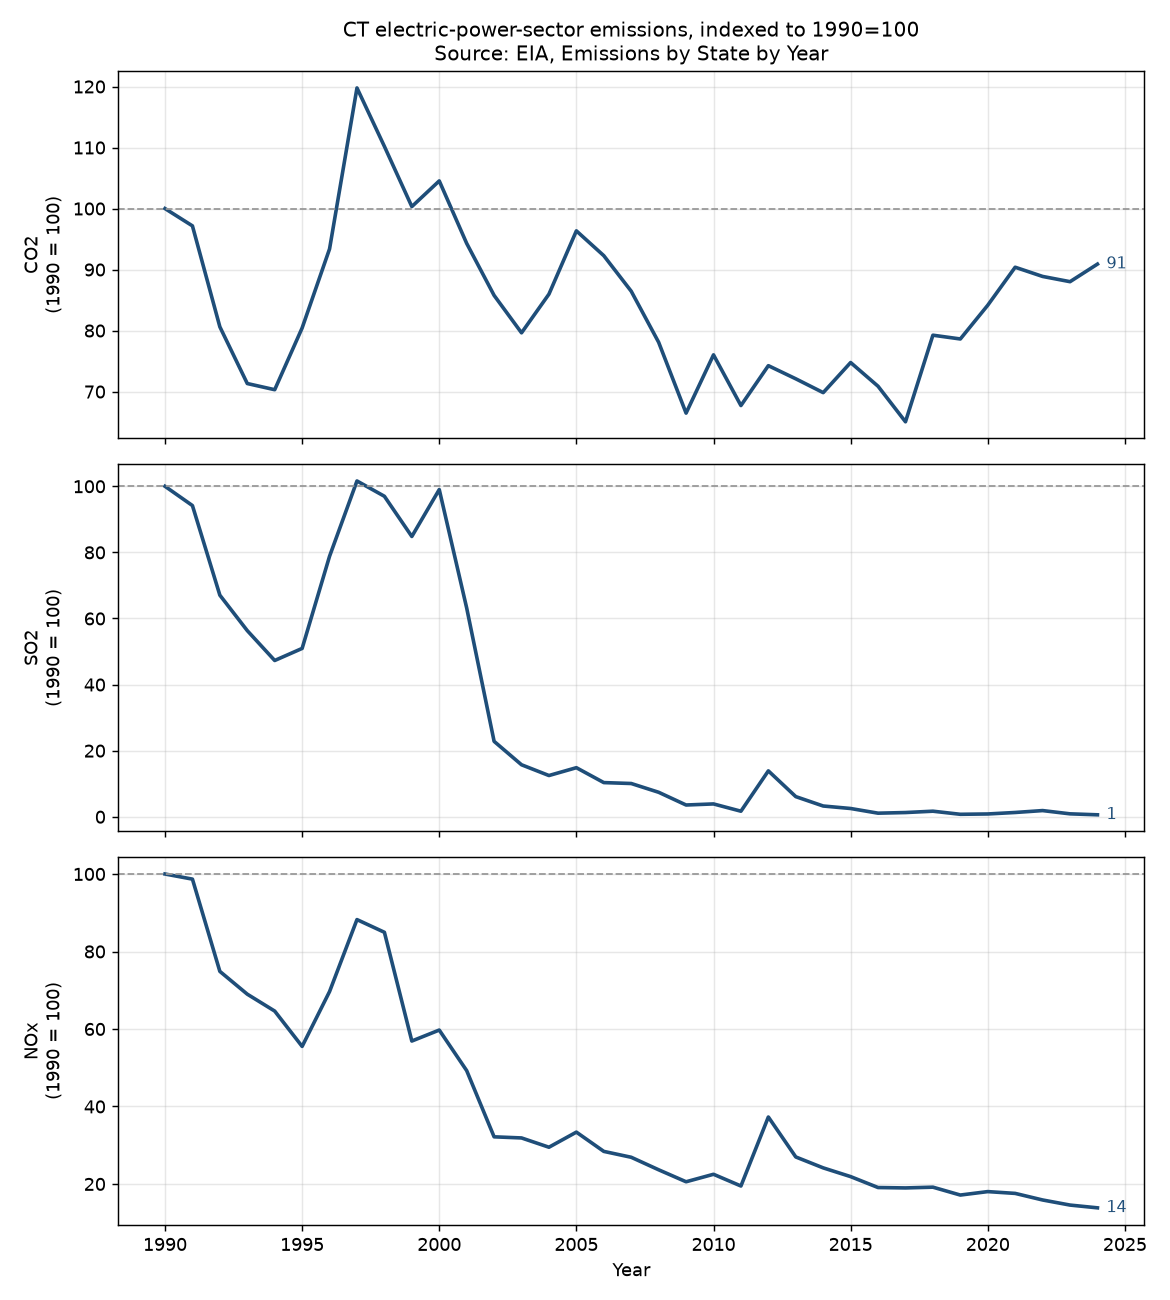
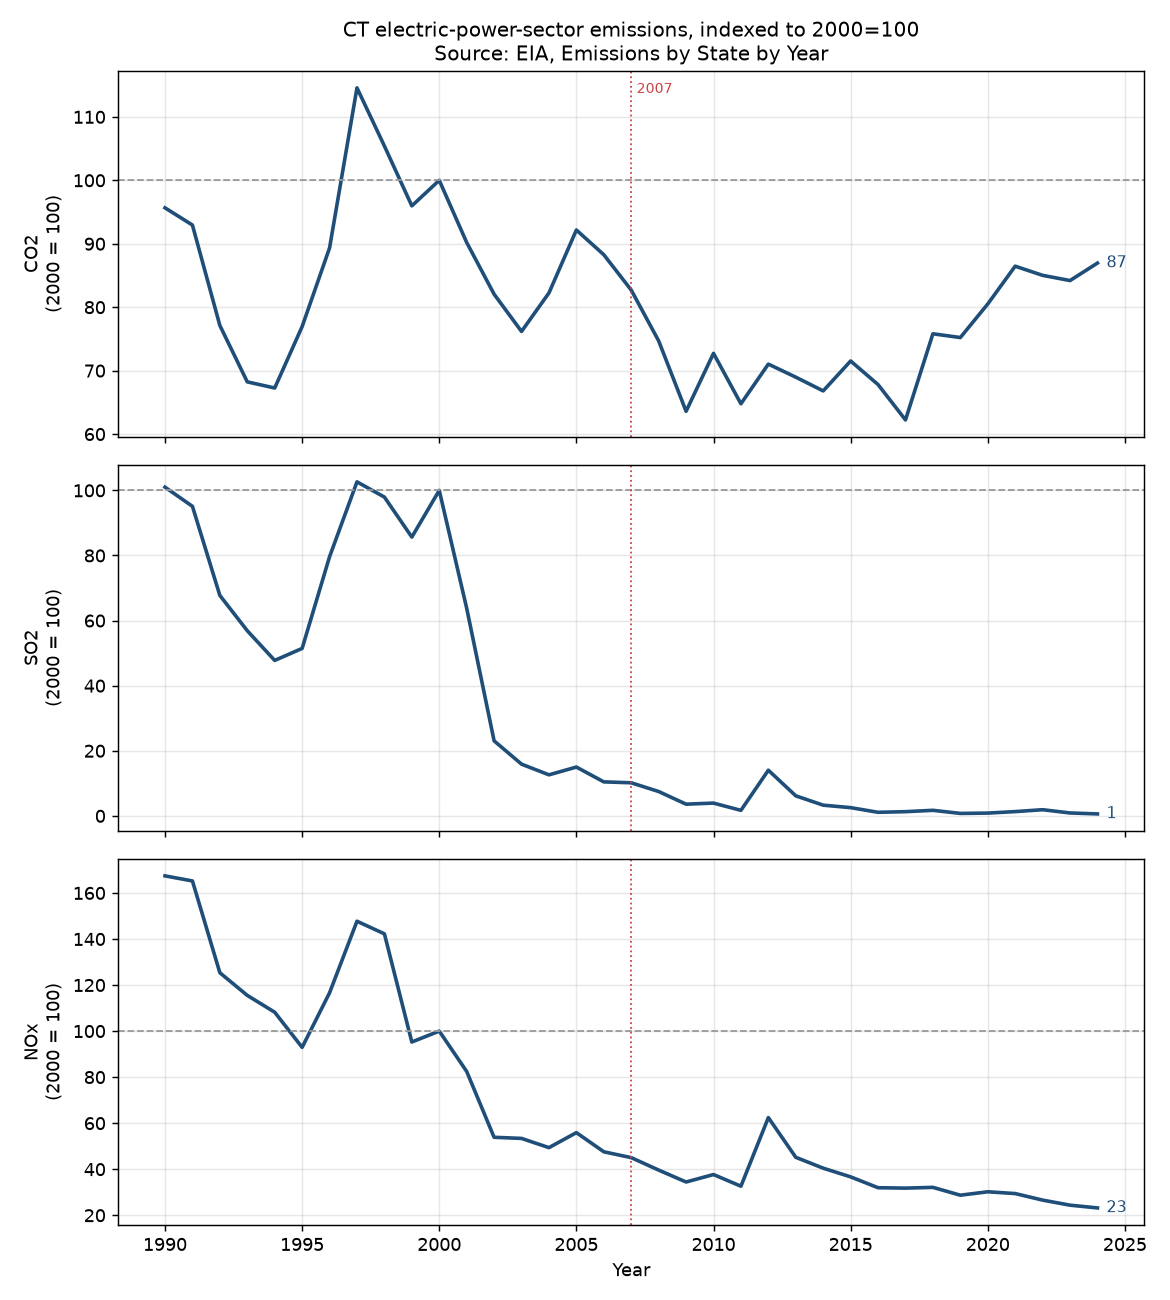
Ground Claim 01 in the actual CCEA report and CBIA article
Refocus the emissions analysis on what CCEA's "How Did We Get Here?" report
actually argues -- that Connecticut is "worse off because of the environmental
impact" of exporting gas-fired generation -- rather than a flat "emissions are
up." Aligns the numbers and baseline (2000) to the published CBIA rebuttal.

- analyze_emissions.py: configurable --baseline (default 2000) and --cross-check
  (default 2007, CCEA's consumption-peak pivot); reports change vs both, plus
  peak; trends chart now indexes to the baseline and marks the 2007 line
- claims/01-emissions/README.md: quotes CCEA verbatim, matches the article's
  figures (CO2 -13%, SO2 -99%, NOx -77% since 2000 with generation up ~50%),
  and addresses CCEA's strongest sub-points (2007 baseline, 7.2 MMTCO2e export
  framing, scope) honestly
- README.md: link the CCEA PDF and the CBIA article; sharpen the claim status
- add US-TOTAL outputs for national context

https://claude.ai/code/session_0133S5AZx3WX4b5S6pbEcabo

diff --git a/claims/01-emissions/analyze_emissions.py b/claims/01-emissions/analyze_emissions.py
@@ -96,30 +96,32 @@ def pct(old: float, new: float) -> float:
     return float("nan") if old == 0 else (new - old) / old * 100.0
 
 
-def summarize(series: pd.DataFrame, label: str) -> pd.DataFrame:
-    """Per-pollutant baseline/peak/latest summary for a totals time series.
+def summarize(series: pd.DataFrame, label: str, ref_year: int) -> pd.DataFrame:
+    """Per-pollutant summary anchored on a chosen reference year.
 
-    Column names are fixed (not f-strings of the year) so summaries for
-    different regions/pollutants concatenate cleanly into one table.
+    Reports the reference year (default 2000, matching the CBIA article), the
+    all-time peak, and the latest year, with percent changes against both the
+    reference and the peak. Column names are fixed strings (the year values live
+    in cells, not headers) so summaries for different regions concatenate cleanly.
     """
     rows = []
-    base_year, latest_year = int(series.index.min()), int(series.index.max())
+    latest_year = int(series.index.max())
     for pol in series.columns:
         s = series[pol]
-        base, latest = s.loc[base_year], s.loc[latest_year]
+        ref, latest = s.loc[ref_year], s.loc[latest_year]
         peak_year = int(s.idxmax())
         peak = s.loc[peak_year]
         rows.append(
             {
                 "Region": label,
                 "Pollutant": pol,
-                "Baseline Year": base_year,
-                "Baseline": round(base),
-                "Peak Year": peak_year,
-                "Peak": round(peak),
+                "Ref Year": ref_year,
+                "Ref": round(ref),
                 "Latest Year": latest_year,
                 "Latest": round(latest),
-                "% chg vs baseline": round(pct(base, latest), 1),
+                "% chg vs ref": round(pct(ref, latest), 1),
+                "Peak Year": peak_year,
+                "Peak": round(peak),
                 "% chg vs peak": round(pct(peak, latest), 1),
             }
         )
@@ -145,16 +147,17 @@ def to_markdown_table(df: pd.DataFrame) -> str:
     return "\n".join(lines) + "\n"
 
 
-def plot_pollutant_trends(series: pd.DataFrame, state: str) -> Path:
-    """Three stacked panels: CO2, SO2, NOx over time, each indexed to 1990=100."""
+def plot_pollutant_trends(series: pd.DataFrame, state: str, ref_year: int, xcheck: int) -> Path:
+    """Three stacked panels: CO2, SO2, NOx over time, each indexed to ref_year=100."""
     fig, axes = plt.subplots(3, 1, figsize=(9, 10), sharex=True)
-    base_year = series.index.min()
     for ax, pol in zip(axes, ["CO2", "SO2", "NOx"]):
         s = series[pol]
-        indexed = s / s.loc[base_year] * 100.0
+        indexed = s / s.loc[ref_year] * 100.0
         ax.plot(s.index, indexed, color="#1f4e79", linewidth=2)
         ax.axhline(100, color="#999", linestyle="--", linewidth=1)
-        ax.set_ylabel(f"{pol}\n({base_year} = 100)")
+        # Mark the cross-check year (CCEA's 2007 pivot) for transparency.
+        ax.axvline(xcheck, color="#c44", linestyle=":", linewidth=1)
+        ax.set_ylabel(f"{pol}\n({ref_year} = 100)")
         ax.grid(True, alpha=0.3)
         latest_year = s.index.max()
         ax.annotate(
@@ -166,8 +169,16 @@ def plot_pollutant_trends(series: pd.DataFrame, state: str) -> Path:
             fontsize=9,
             color="#1f4e79",
         )
+    axes[0].annotate(
+        f"{xcheck}",
+        xy=(xcheck, axes[0].get_ylim()[1]),
+        xytext=(3, -12),
+        textcoords="offset points",
+        fontsize=8,
+        color="#c44",
+    )
     axes[0].set_title(
-        f"{state} electric-power-sector emissions, indexed to {base_year}=100\n"
+        f"{state} electric-power-sector emissions, indexed to {ref_year}=100\n"
         "Source: EIA, Emissions by State by Year",
         fontsize=11,
     )
@@ -213,6 +224,20 @@ def main() -> None:
         default="CT",
         help="Two-letter state code to analyze (default: CT). Use US-TOTAL for the nation.",
     )
+    parser.add_argument(
+        "--baseline",
+        type=int,
+        default=2000,
+        help="Reference year for percent-change headlines (default: 2000, the "
+        "baseline used in the CBIA article).",
+    )
+    parser.add_argument(
+        "--cross-check",
+        type=int,
+        default=2007,
+        help="A second reference year to report (default: 2007, the year CCEA "
+        "cites as the start of declining in-state consumption).",
+    )
     args = parser.parse_args()
     state = args.state.upper()
 
@@ -227,33 +252,37 @@ def main() -> None:
     us_totals = sector_totals(df, "US-TOTAL")
     fuel = co2_by_fuel(df, state)
 
+    first_year, latest_year = int(state_totals.index.min()), int(state_totals.index.max())
+    ref, xcheck = args.baseline, args.cross_check
+    for yr in (ref, xcheck):
+        if yr not in state_totals.index:
+            raise SystemExit(f"Year {yr} not in data range {first_year}-{latest_year}.")
+
     # Console report -----------------------------------------------------------
-    base_year, latest_year = state_totals.index.min(), state_totals.index.max()
-    print(f"\n{'='*70}\nClaim 01 - 'Emissions are up'\n{'='*70}")
-    print(f"State: {state}   |   Range: {base_year}-{latest_year}")
+    print(f"\n{'='*70}\nClaim 01 - emissions / environmental impact\n{'='*70}")
+    print(f"State: {state}   |   Data range: {first_year}-{latest_year}")
+    print(f"Headline baseline: {ref}   |   Cross-check baseline: {xcheck}")
     print(f"Source: EIA, Emissions by State by Year ({DATA_FILE.name})\n")
 
     summary = pd.concat(
-        [summarize(state_totals, state), summarize(us_totals, "US-TOTAL")],
+        [summarize(state_totals, state, ref), summarize(us_totals, "US-TOTAL", ref)],
         ignore_index=True,
     )
     print(summary.to_string(index=False))
 
-    co2 = state_totals["CO2"]
-    print(f"\n-- Fuel switch ({state}, CO2 in metric tons) --")
-    for yr in [base_year, latest_year]:
+    print(f"\n-- {state} fuel switch (CO2, metric tons) --")
+    for yr in [ref, latest_year]:
         row = {f: int(fuel.loc[yr, f]) for f in FOSSIL_FUELS}
         print(f"  {yr}: {row}")
-    print(
-        f"\n  CO2:  {int(co2.loc[base_year]):,} -> {int(co2.loc[latest_year]):,} t "
-        f"({pct(co2.loc[base_year], co2.loc[latest_year]):+.1f}% vs {base_year}; "
-        f"{pct(co2.max(), co2.loc[latest_year]):+.1f}% vs peak {co2.idxmax()})"
-    )
-    for pol in ["SO2", "NOx"]:
+
+    # Show each pollutant against BOTH baselines so the 2007 nuance is explicit.
+    print(f"\n-- {state} pollutant change vs {ref} and vs {xcheck} --")
+    for pol in ["CO2", "SO2", "NOx"]:
         s = state_totals[pol]
         print(
-            f"  {pol}:  {int(s.loc[base_year]):,} -> {int(s.loc[latest_year]):,} t "
-            f"({pct(s.loc[base_year], s.loc[latest_year]):+.1f}% vs {base_year})"
+            f"  {pol:3}: vs {ref}: {pct(s.loc[ref], s.loc[latest_year]):+6.1f}%   "
+            f"vs {xcheck}: {pct(s.loc[xcheck], s.loc[latest_year]):+6.1f}%   "
+            f"({int(s.loc[ref]):,} / {int(s.loc[xcheck]):,} -> {int(s.loc[latest_year]):,})"
         )
 
     # File outputs -------------------------------------------------------------
@@ -265,7 +294,7 @@ def main() -> None:
         fh.write(to_markdown_table(summary))
         fh.write("\n")
 
-    trends_png = plot_pollutant_trends(state_totals, state)
+    trends_png = plot_pollutant_trends(state_totals, state, ref, xcheck)
     mix_png = plot_co2_fuel_mix(fuel, state)
 
     print(f"\nWrote outputs to {OUTPUT_DIR}/")

diff --git a/claims/01-emissions/README.md b/claims/01-emissions/README.md
@@ -1,87 +1,119 @@
-# Claim 01 — "Emissions are up"
+# Claim 01 — Emissions / environmental impact
 
-## The claim
+**CCEA report:** *How Did We Get Here?* (Connecticut Center for Economic
+Analysis / Fred Carstensen)
+[[PDF]](https://www.conservationeducation.org/uploads/6/2/0/1/6201942/how_did_we_get_here_-_ccea_report.pdf)
 
-> _"[Paste the exact CCEA / Carstensen quote here, with citation and date.]"_
+**Rebuttal article:** "Natural Gas Does Not Make Electricity More Expensive,"
+CBIA
+[[link]](https://www.cbia.com/news/issues-policies/natural-gas-does-not-make-electricity-more-expensive)
 
-The claim, as commonly stated, is that the shift toward natural gas in the power
-sector has **driven emissions up**. This page tests that against the official
-record.
+---
+
+## What CCEA actually claims
+
+CCEA does **not** claim natural gas raised total emissions outright — it
+concedes the opposite happened initially:
+
+> "…a startling expansion of investments in utility power generation … *initially
+> helped to significantly reduce greenhouse gas emission relative to the use of
+> other fossil fuels*." — Executive Summary
+
+Their argument is that Connecticut is nonetheless **"worse off because of the
+environmental impact"** because it now generates far more power than it consumes
+and exports the surplus, so it keeps the pollution while shipping the
+electricity (and the benefit) out of state:
+
+> "…sending so much of the power generated in-state out-of-state does mean that
+> Connecticut citizens endured pollution costs from **7.2 MMTCO2e on additional
+> emissions**. In 2025, the World Bank values these CO2e emissions from
+> electricity generation at **$506.8M**…"
+
+> "Note that energy consumption in Connecticut itself has been declining since
+> **2007**, meaning that public health costs in the state resulting from
+> shipping power out-of-state have **been rising**."
+
+So the testable empirical claim is: **Connecticut's in-state power-sector
+emissions burden has been rising** (post-2007, driven by export-oriented gas
+generation), making the state environmentally worse off.
 
 ## The data
 
-**Source:** U.S. Energy Information Administration (EIA), *Emissions by State by
-Year* — the federal government's official accounting of **electric-power-sector**
-emissions of CO₂, SO₂, and NOx, by state and fuel, from 1990 to 2024.
+**Source:** EIA, *Emissions by State by Year* — official electric-power-sector
+CO₂, SO₂, and NOx by state and fuel, 1990–2024.
+URL: <https://www.eia.gov/electricity/data/state/emission_annual.xlsx>
+Scope: **electric power sector only** (not economy-wide).
 
-- URL: <https://www.eia.gov/electricity/data/state/emission_annual.xlsx>
-- Scope: **electric power sector only** (not economy-wide; transportation and
-  building heating are not included here).
-- Geography: Connecticut, with the U.S. total for context. (CCEA is the
-  Connecticut Center for Economic Analysis, so Connecticut is the natural focus.)
-
-Reproduce everything on this page:
+Reproduce:
 
 ```bash
 python scripts/download_data.py
-python claims/01-emissions/analyze_emissions.py          # Connecticut
+python claims/01-emissions/analyze_emissions.py              # CT, 2000 baseline
 python claims/01-emissions/analyze_emissions.py --state US-TOTAL
 ```
 
 ## What the data shows
 
-Connecticut power-sector emissions, EIA *Total Electric Power Industry*:
+Connecticut power-sector emissions, **indexed to 2000** (the baseline used in the
+CBIA article), with the all-time peak for context:
 
-| Pollutant | 1990 | Peak | Latest (2024) | vs 1990 | vs peak |
-|-----------|-----:|-----:|--------------:|--------:|--------:|
-| CO₂ (metric tons) | 12,103,268 | 14,495,967 (1997) | 11,001,595 | **−9.1%** | **−24.1%** |
-| SO₂ (metric tons) | 52,235 | 53,078 (1997) | 313 | **−99.4%** | **−99.4%** |
-| NOx (metric tons) | 31,512 | 31,512 (1990) | 4,363 | **−86.2%** | **−86.2%** |
+| Pollutant | 2000 | Latest (2024) | **vs 2000** | Peak | vs peak |
+|-----------|-----:|--------------:|------------:|-----:|--------:|
+| CO₂ (metric tons) | 12,651,961 | 11,001,595 | **−13.0%** | 14,495,967 (1997) | −24.1% |
+| SO₂ (metric tons) | 51,721 | 313 | **−99.4%** | 53,078 (1997) | −99.4% |
+| NOx (metric tons) | 18,821 | 4,363 | **−76.8%** | 31,512 (1990) | −86.2% |
 
-The national picture moves the same direction (U.S. power-sector CO₂ −21% vs
-1990 and −40% vs its 2007 peak; SO₂ −95%; NOx −86%).
+These are the figures cited in the article — CO₂ down 13%, SO₂ down 99%, NOx
+down 77% since 2000 — **and CCEA's own report says generation rose ~50% over
+essentially the same period** ("electricity generation 2001-2022/4 rose by nearly
+50%"). Emissions fell sharply *while output grew by half*.
 
-![Connecticut power-sector emissions indexed to 1990=100](output/CT_pollutant_trends.png)
+![CT power-sector emissions indexed to 2000=100](output/CT_pollutant_trends.png)
 
-### The fuel switch behind it
+### The driver: coal and oil displaced by gas
 
-Connecticut's power sector ran on **coal and oil** in 1990. By 2024 those were
-almost entirely displaced by natural gas — and that switch is exactly what drove
-the emissions down:
-
-| Fuel (CO₂, metric tons) | 1990 | 2024 |
+| Fuel (CO₂, metric tons) | 2000 | 2024 |
 |-------------------------|-----:|-----:|
-| Coal | 3,560,469 | 0 |
-| Petroleum (oil) | 7,382,393 | 81,131 |
-| Natural Gas | 697,643 | 10,214,445 |
+| Coal | 3,370,556 | 0 |
+| Petroleum (oil) | 5,858,878 | 81,131 |
+| Natural Gas | 2,241,028 | 10,214,445 |
 
-![Connecticut power-sector CO₂ by fuel](output/CT_co2_fuel_mix.png)
+The SO₂ and NOx collapse is almost entirely the retirement of coal and oil —
+exactly the displacement the article attributes to natural gas.
+
+![CT power-sector CO₂ by fuel](output/CT_co2_fuel_mix.png)
 
 ## Verdict
 
-**The claim that power-sector emissions are "up" is not supported by the EIA
-record.** Every pollutant EIA tracks is *below* its 1990 level and far below its
-peak:
+**The "environmentally worse off" framing is not supported by the absolute
+emissions record.** Even as Connecticut became New England's largest generator
+and output rose ~50%, total power-sector CO₂ fell 13%, and the criteria
+pollutants that most directly drive local public health — NOx and SO₂ — fell 77%
+and 99%. A state whose air pollution from power generation has fallen by these
+margins is not plausibly "worse off" environmentally because of that generation.
 
-- **SO₂ is down 99.4%** and **NOx is down 86%** — the criteria pollutants most
-  directly tied to public health (smog, acid rain, fine particulates).
-- **CO₂ is down 9% from 1990 and 24% from its peak**, even though Connecticut's
-  power sector generates more electricity today than it did then.
+## Honest treatment of CCEA's strongest sub-points
 
-The driver is unambiguous in the fuel data: natural gas displaced the coal and
-oil that Connecticut's grid used to burn.
+A credible line-by-line review has to engage CCEA's framing on its own terms:
 
-## An honest caveat
+1. **The 2007 baseline.** CCEA anchors "rising costs" on 2007, when in-state
+   *consumption* peaked. Measured from 2007, CT power-sector **CO₂ is up ~5.1%**
+   (10.46M → 11.00M t). That is the kernel of truth in the claim — but it is
+   baseline-shopping: from 2000, or from the 1997/2007 emissions peaks, CO₂ is
+   down, and even from 2007 **SO₂ (−94%) and NOx (−49%) kept falling steeply**.
+   The 2007 line is marked on the chart above so readers can see this directly.
 
-Intellectual honesty requires noting the one place the trend is *not* monotonic:
-Connecticut power-sector **CO₂ rose from its 2017 low (~7.9M t) back to ~11.0M t
-in 2024**. So a critic could cherry-pick "CO₂ is up since 2017" — but that is a
-selective baseline. Against the standard 1990 reference, and against the
-all-time peak, CO₂ is down, and the health-relevant criteria pollutants have
-collapsed. The choice of baseline year, pollutant, and scope (power sector vs.
-economy-wide) determines the answer, which is precisely why this analysis states
-all three explicitly.
+2. **"7.2 MMTCO2e of additional emissions" from exports.** CCEA assigns the CO₂
+   of exported power to Connecticut and prices it at the social cost of carbon.
+   But (a) CO₂ is a global pollutant — those tons are not local "public health"
+   exposure; and (b) exported gas generation displaces *dirtier* marginal
+   generation elsewhere in the region, so attributing it as pure added harm to
+   Connecticut double-counts. For the *local* health pollutants that actually
+   vary with where power is burned (NOx, SO₂), the in-state trend is sharply
+   down, and per the article's EPA point, **90–95% of Connecticut's measured
+   pollution is attributable to out-of-state sources** — not its own power plants.
 
-> **To finalize:** drop the exact CCEA quote (with its baseline year and whether
-> it refers to the power sector or the whole economy) into "The claim" above so
-> the rebuttal addresses their wording precisely.
+3. **Scope.** This dataset is the electric power sector only. CCEA's claim is
+   also about the power sector, so the comparison is apples-to-apples; economy-
+   wide emissions (transportation, heating) are a separate question handled under
+   other claims.

diff --git a/claims/01-emissions/output/summary_table.md b/claims/01-emissions/output/summary_table.md
@@ -1,11 +1,11 @@
 # Claim 01 - Emissions (CT) - EIA data
 
-| Region | Pollutant | Baseline Year | Baseline | Peak Year | Peak | Latest Year | Latest | % chg vs baseline | % chg vs peak |
+| Region | Pollutant | Ref Year | Ref | Latest Year | Latest | % chg vs ref | Peak Year | Peak | % chg vs peak |
 | --- | --- | --- | --- | --- | --- | --- | --- | --- | --- |
-| CT | CO2 | 1990 | 12,103,268 | 1997 | 14,495,967 | 2024 | 11,001,595 | -9.1 | -24.1 |
-| CT | SO2 | 1990 | 52,235 | 1997 | 53,078 | 2024 | 313 | -99.4 | -99.4 |
-| CT | NOx | 1990 | 31,512 | 1990 | 31,512 | 2024 | 4,363 | -86.2 | -86.2 |
-| US-TOTAL | CO2 | 1990 | 1,953,698,942 | 2007 | 2,547,032,486 | 2024 | 1,537,072,640 | -21.3 | -39.7 |
-| US-TOTAL | SO2 | 1990 | 15,461,524 | 1990 | 15,461,524 | 2024 | 807,686 | -94.8 | -94.8 |
-| US-TOTAL | NOx | 1990 | 7,961,276 | 1993 | 7,996,658 | 2024 | 1,112,395 | -86.0 | -86.1 |
+| CT | CO2 | 2000 | 12,651,961 | 2024 | 11,001,595 | -13.0 | 1997 | 14,495,967 | -24.1 |
+| CT | SO2 | 2000 | 51,721 | 2024 | 313 | -99.4 | 1997 | 53,078 | -99.4 |
+| CT | NOx | 2000 | 18,821 | 2024 | 4,363 | -76.8 | 1990 | 31,512 | -86.2 |
+| US-TOTAL | CO2 | 2000 | 2,470,834,445 | 2024 | 1,537,072,640 | -37.8 | 2007 | 2,547,032,486 | -39.7 |
+| US-TOTAL | SO2 | 2000 | 11,903,806 | 2024 | 807,686 | -93.2 | 1990 | 15,461,524 | -94.8 |
+| US-TOTAL | NOx | 2000 | 5,638,125 | 2024 | 1,112,395 | -80.3 | 1993 | 7,996,658 | -86.1 |
 

diff --git a/README.md b/README.md
@@ -8,8 +8,12 @@ Every figure cited here is reproducible: the code that downloads the source
 data and produces the numbers and charts lives in this repository, so anyone
 can re-run it and check the result.
 
-> **Companion article:** I summarized this analysis in an op-ed/article
-> published on the CBIA website. _(Add the link here.)_
+> **CCEA report under review:** *How Did We Get Here?*
+> [[PDF]](https://www.conservationeducation.org/uploads/6/2/0/1/6201942/how_did_we_get_here_-_ccea_report.pdf)
+>
+> **Companion article:** "Natural Gas Does Not Make Electricity More Expensive,"
+> published on the CBIA website
+> [[link]](https://www.cbia.com/news/issues-policies/natural-gas-does-not-make-electricity-more-expensive).
 
 ## Why this exists
 
@@ -23,7 +27,7 @@ says. Where a claim holds up, it says so; where it doesn't, it shows why.
 
 | # | Claim (as stated by CCEA) | Status | Analysis |
 |---|---------------------------|--------|----------|
-| 01 | "Emissions are up" | Not supported by the power-sector record | [`claims/01-emissions/`](claims/01-emissions/) |
+| 01 | Connecticut is "worse off because of the environmental impact" of gas generation | Not supported — power-sector CO₂ −13%, NOx −77%, SO₂ −99% since 2000 even as generation rose ~50% | [`claims/01-emissions/`](claims/01-emissions/) |
 
 _(More claims to be added.)_
 
